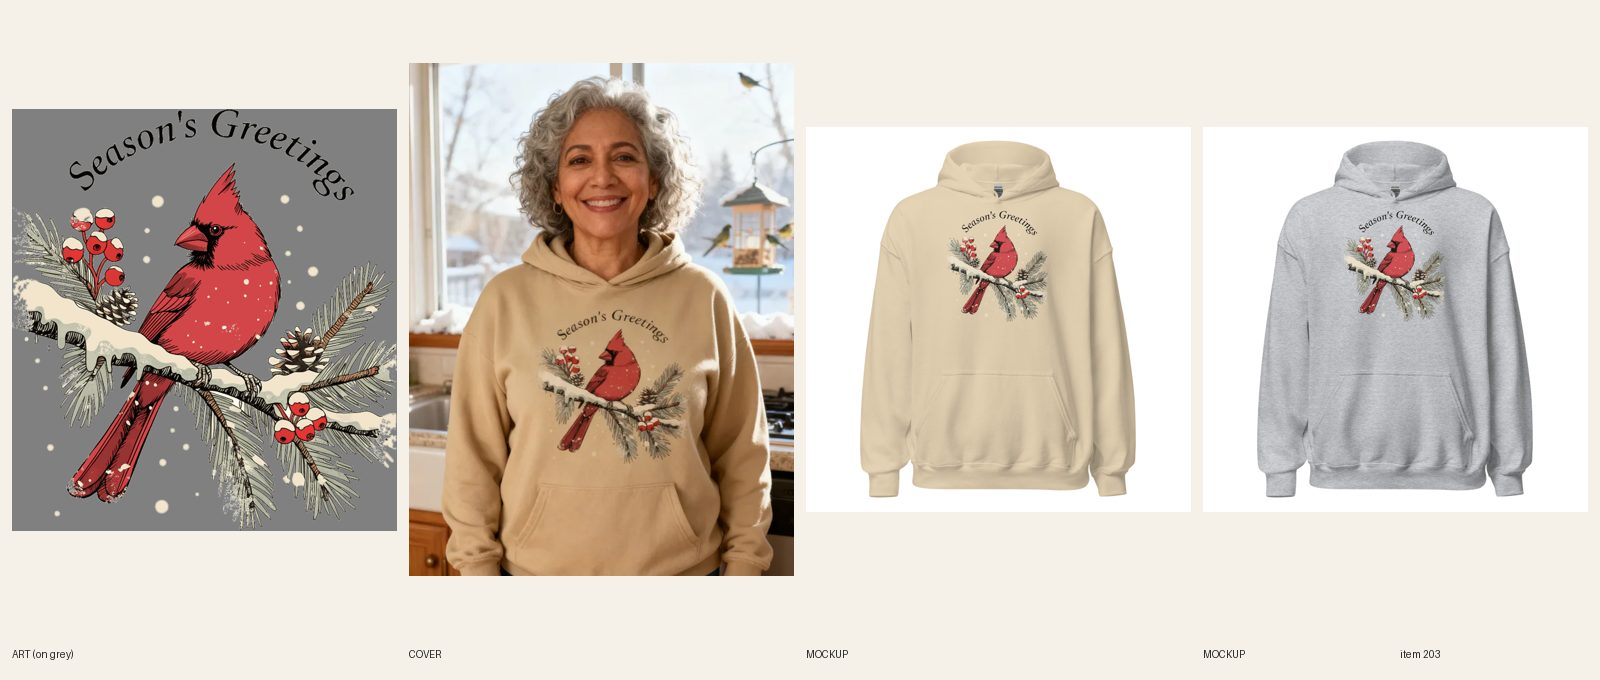
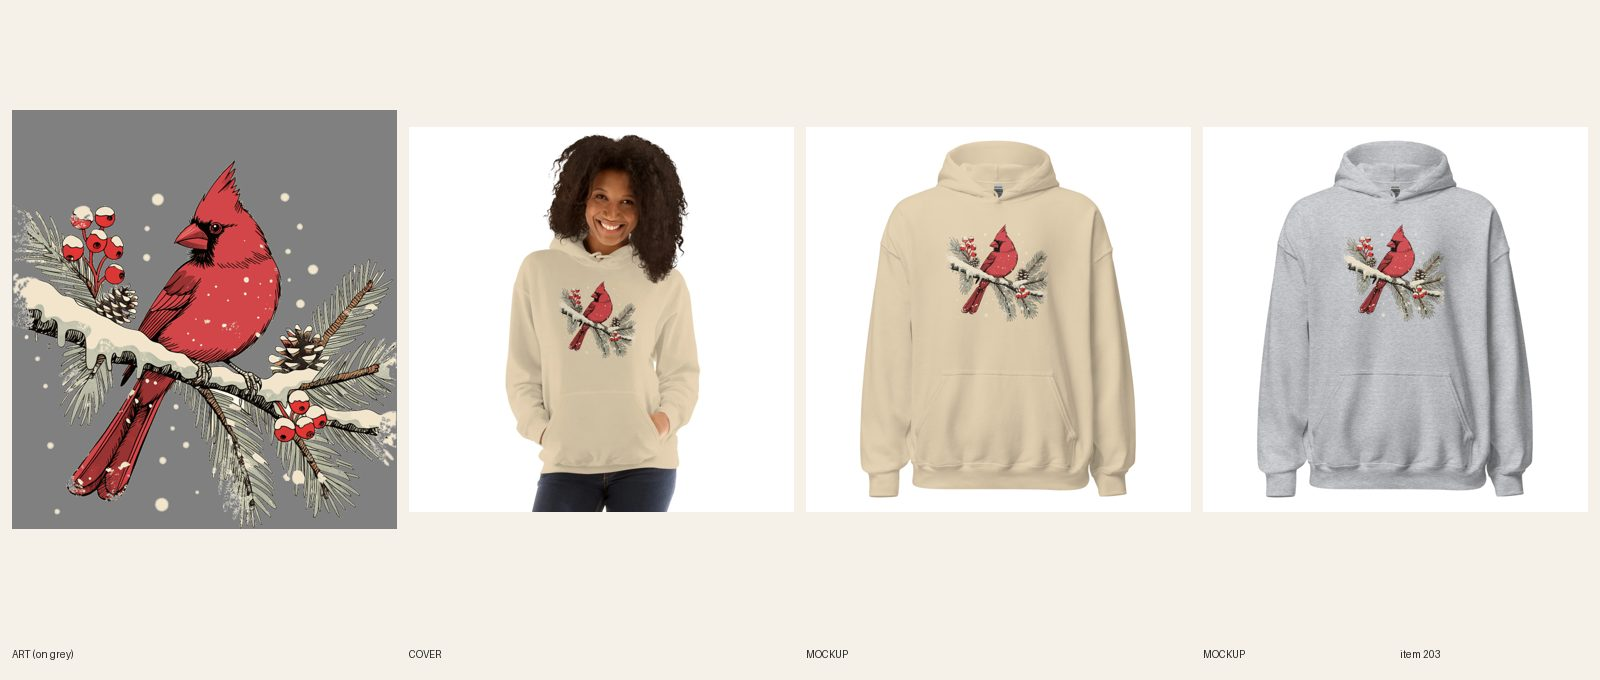
[A] review 203 Cardinal + 204 Winter Woods Fox hoodies (line erased, temp covers)
Claude-Session: https://claude.ai/code/session_01Nu4j19ziyBFmne5NXpYrzC

diff --git a/docs/intake-log.md b/docs/intake-log.md
@@ -1,5 +1,6 @@
 RUNNING director since 2026-10-17 04:11 UTC
 RUNNING lane A since 2026-10-17 03:58 UTC
+2026-10-17 04:11 UTC — [A] Builder (temp-cover mode): #203 Cardinal and #204 Winter Woods Fox hoodies: typeset line erased, re-linked 12/12, new mockups, copy/SEO fixed, Printful temp covers (keep) → REVIEW.
 2026-10-17 04:10 UTC — [A] Builder (temp-cover mode): #207 Vintage Snowman hoodie: SNOW DAY erased, re-linked 12/12, new mockups, copy fixed, Printful temp cover (style 1435, self-grade keep) → REVIEW.
 2026-10-17 04:01 UTC — [A] Builder (temp-cover mode): #206 Christmas Cats hoodie cover swapped to Printful Women's Lifestyle mockup (style 1421, cover: temp, self-grade keep) → REVIEW. New scripts/pf-lifestyle.py (Printful v2 lifestyle mockups by style id; no fal).
 2026-10-17 03:43 UTC — [H] Helper run: Telegram inbox empty (getUpdates returned nothing, nothing to consume). Audit (277 products): 0 errors, 8 warnings left alone (polish). Category backfill (one-time rule, still checking): 7 products had no category, set in one batch, all clean: 7 hoodies (aa-1-13-13: Christian Fishers of Men, Lunges and Lattes, Pace: Leisurely, Cowboy Up. Later., Retro Loose Goose oversized, Catch and Release, Deadlift Skeleton oversized). Site freshness: womens-retro-loose-goose-oversized-hoodie, mens-western-cowboy-up-later-hoodie, unisex-running-pace-leisurely-hoodie all return 200. Stuck check: none (lane A last commit 03:30 UTC, lane B 03:27 UTC; no stale lane lock). Announcement bar already shows the holiday line (R12.4), no change. Daily summary not due (next after 12:00 UTC). Lock released.

diff --git a/docs/pipeline/203-christmas-hoodie-cardinal.md b/docs/pipeline/203-christmas-hoodie-cardinal.md
@@ -1,6 +1,7 @@
-status: REDO
+status: REVIEW
 lane: A
 type: twin
+cover: temp
 id: 203
 handle: womens-christmas-cardinal-christmas-hoodie
 ---
@@ -24,3 +25,4 @@ handle: womens-christmas-cardinal-christmas-hoodie
   1. R3.7.6 / R6.2: 'Season's Greetings' is a typeset book-serif italic (even spacing). Twins only from rule-passing art. Erase the line in print-prep (the cardinal on the branch carries the print alone) or re-letter it by hand (one Recraft lettering-only generation composed in print-prep, like #234). Check on Sand and Sport Grey, re-upload, resync, new mockups.
   2. R6.8 / R6.9: the cover shows the old line, so one new cover from the product's own Sand mockup as --design, hands empty; the hoodie must read as Sand (this one reads tan/khaki).
   3. R8.3: Story, Questions and meta describe only what the new print shows (drop 'Season's Greetings' if erased).
+- 2026-10-17 04:11 UTC builder [A]: REDO (fal empty, no fal calls): (1) Season's Greetings erased in print-prep (component erase of the dark script, faint alpha halo cleared, top trimmed; cardinal and branch untouched); new file 1088022004 (3600x3919, branch lane-a-files), re-linked 12/12 FW=1469 TOP=0 (sync 482260495); (2) new Sand + Sport Grey mockups replaced in place; (3) copy/SEO/FAQ: removed Season's Greetings and the dark-script reason for Sand + Sport Grey (R8.3); (4) TEMP COVER: Printful Women's 2 (style 20243, Sand 18500, hood visible, hands in pocket, print fully visible), covers.ts alt. Self-grade: keep. Sheet docs/review/203.jpg. REVIEW.

diff --git a/docs/pipeline/204-christmas-hoodie-winter-woods-fox.md b/docs/pipeline/204-christmas-hoodie-winter-woods-fox.md
@@ -1,6 +1,7 @@
-status: REDO
+status: REVIEW
 lane: A
 type: twin
+cover: temp
 id: 204
 handle: womens-christmas-winter-woods-fox-hoodie
 ---
@@ -24,3 +25,4 @@ handle: womens-christmas-winter-woods-fox-hoodie
   1. R3.7.6 / R6.2: 'Winter Woods' is a typeset book serif (even spacing). Erase it in print-prep (the sleeping fox in the holly reads alone) or re-letter it by hand (one Recraft lettering-only generation, composed in print-prep). Check on Sand and Navy, resync, new mockups.
   2. R6.8 / R6.9: one new cover (shows the old line now): product's Navy mockup as --design, thermos away from the print or none, hood visible.
   3. R8.3: copy and meta describe only the new print.
+- 2026-10-17 04:11 UTC builder [A]: REDO (fal empty, no fal calls): (1) Winter Woods erased in print-prep (11 red letter components removed, halo cleared, top trimmed; fox and boughs untouched); new file 1088022020 (3600x3317, branch lane-a-files), re-linked 12/12 FW=1500 TOP=0 (sync 482261190); (2) new Sand + Navy mockups replaced in place; (3) copy/SEO: Winter Woods removed (R8.3); (4) TEMP COVER: Printful Women's 5 (style 1463, Navy 18500, hood visible, hands at the hood not the print), covers.ts alt. Self-grade: keep. Sheet docs/review/204.jpg. REVIEW.
